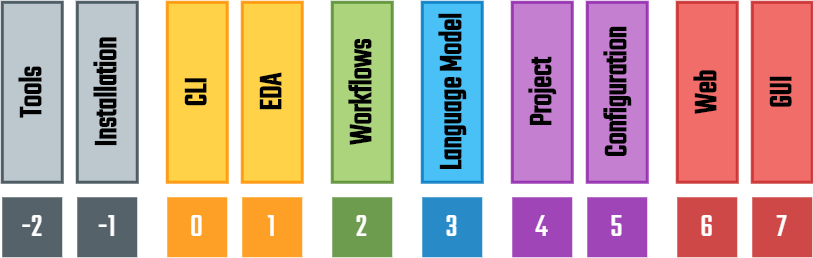
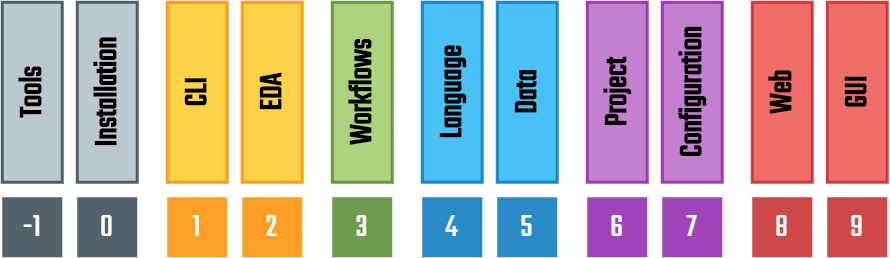
ConceptualModel: add layer 'Data', renumber

diff --git a/ConceptualModel.rst b/ConceptualModel.rst
@@ -19,47 +19,60 @@ Its goal is the interoperability of diverse tools and languages with documented 
 
    Layers of the EDA² conceptual model.
 
--2 | Tools
+-1 | Tools
     Development of (open source) EDA tools.
     Organisation `github.com/hdl <https://github.com/hdl>`__ contains an *awesome* list of tools: `hdl.github.io/awesome <https://hdl.github.io/awesome>`__.
     Most EDA tools are developed and managed independently of EDA².
     However, since the main purpose of EDA² is easing the usage of tools, this layer represents them.
 
--1 | Installation
+0 | Installation
     Packaging and distribution of EDA tools.
     Organisation `github.com/hdl <https://github.com/hdl>`__ contains an index of packaging solutions (`hdl/packages <https://github.com/hdl/packages>`__),
     along with `hdl/smoke-tests <https://github.com/hdl/smoke-tests>`__ for packagers to test the artifacts.
     This layer includes the abstraction(s) for dealing with multiple versions of the tools installed in different
     locations.
 
-0 | CLI
+1 | CLI
     Abstraction of Command-Line Interface programs (independent of EDA tools).
     May include the abstraction for running isolated tools on containers (e.g. from `hdl/containers <https://github.com/hdl/containers>`__).
 
-1 | EDA
+2 | EDA
     Interaction with EDA tools (both open source and vendors), including multiple version support, output
     filtering, etc.
     See :ref:`OSVB: Logging <OSVB:API:Logging>`.
 
-2 | Workflows
+3 | Workflows
     Middle layer to translate projects into execution steps (EDA and/or CLI).
     See :ref:`OSVB: Tool <OSVB:API:Tool>` and :ref:`OSVB: Runner <OSVB:API:Runner>`.
 
-3 | Language Model
-    Syntax/design Document Object Model (DOM) of the language(s).
-    See :doc:`vhdlmodel:index`, :doc:`svmodel:index` and :ref:`OSVB: pyVHDLModelUtils <OSVB:API:Project:pyVHDLModelUtils>`.
+4 | Language Model
+    Syntax and Document Object Model (DOM) of the imperative and parallel language(s) such as VHDL and System Verilog.
+    See:
 
-4 | Project
+    * :doc:`vhdlmodel:index`
+    * :doc:`svmodel:index`
+    * :ref:`OSVB: pyVHDLModelUtils <OSVB:API:Project:pyVHDLModelUtils>`.
+
+5 | Data Model
+    IP-XACT, UCIS, XUnit, Cobertura,... imported from or exported into structured files such as JSON, XML, TOML/INI, YAML,...
+    See:
+
+    * `pyEDAA.Reports <https://github.com/edaa-org/pyEDAA.Reports>`__
+    * `pyEDAA.IPXACT <https://github.com/edaa-org/pyEDAA.IPXACT>`__
+    * :ref:`OSVB: Logging <OSVB:API:Logging:OSVR>`
+
+6 | Project Model
     Tool independent information (files/filesets, primary design units, testbenches, `hdl/constraints <https://github.com/hdl/constraints>`__,
     etc.) and tool specific parameters. See :doc:`projectmodel:index`.
 
-5 | Configuration
-    INI/JSON/YAML format for providing the data used in Workflow and/or Project through files, instead of using the APIs.
+7 | Configuration
+    INI/JSON/YAML format for providing the sources and constraints data used in Workflow and/or Project through files,
+    instead of using the APIs.
     See :ref:`OSVB: Core <OSVB:API:Core>`.
 
-6 | Web
+8 | Web
     Web API wrapping the previous layers.
 
-7 | GUI
+9 | GUI
     Visual frontend to the web API or to the previous layers.
     See :ref:`OSVB: Open Source VHDL Design Explorer (OSVDE) <OSVB:API:Project:OSVDE>`.

diff --git a/README.md b/README.md
@@ -78,7 +78,7 @@ That is achieved through a series of tool interfaces:
   -->
 </p>
 
-along with syntax/document object models for language and specifications:
+along with syntax/document object models for language and data format specifications:
 
 <p align="center">
   <a title="VHDL/pyVHDLModel GitHub repository" href="https://github.com/VHDL/pyVHDLModel"><img src="https://img.shields.io/badge/VHDL-pyVHDLModel-29b6f6.svg?longCache=true&style=flat-square&logo=GitHub&labelColor=0277bd"></a><!--

diff --git a/SyntaxModels.rst b/SyntaxModels.rst
@@ -1,7 +1,9 @@
 .. _EDAA:SyntaxModels:
 
-Languages and Syntax
-####################
+Languages and Data
+##################
+
+Language Models:
 
 .. image:: _static/logo/pyVHDLModel.svg
    :height: 80 px
@@ -20,6 +22,8 @@ Languages and Syntax
 .. raw:: html
 
     <br>
+
+Data Models:
 
 .. image:: _static/logo/pyEDAA.Reports.svg
    :height: 80 px
